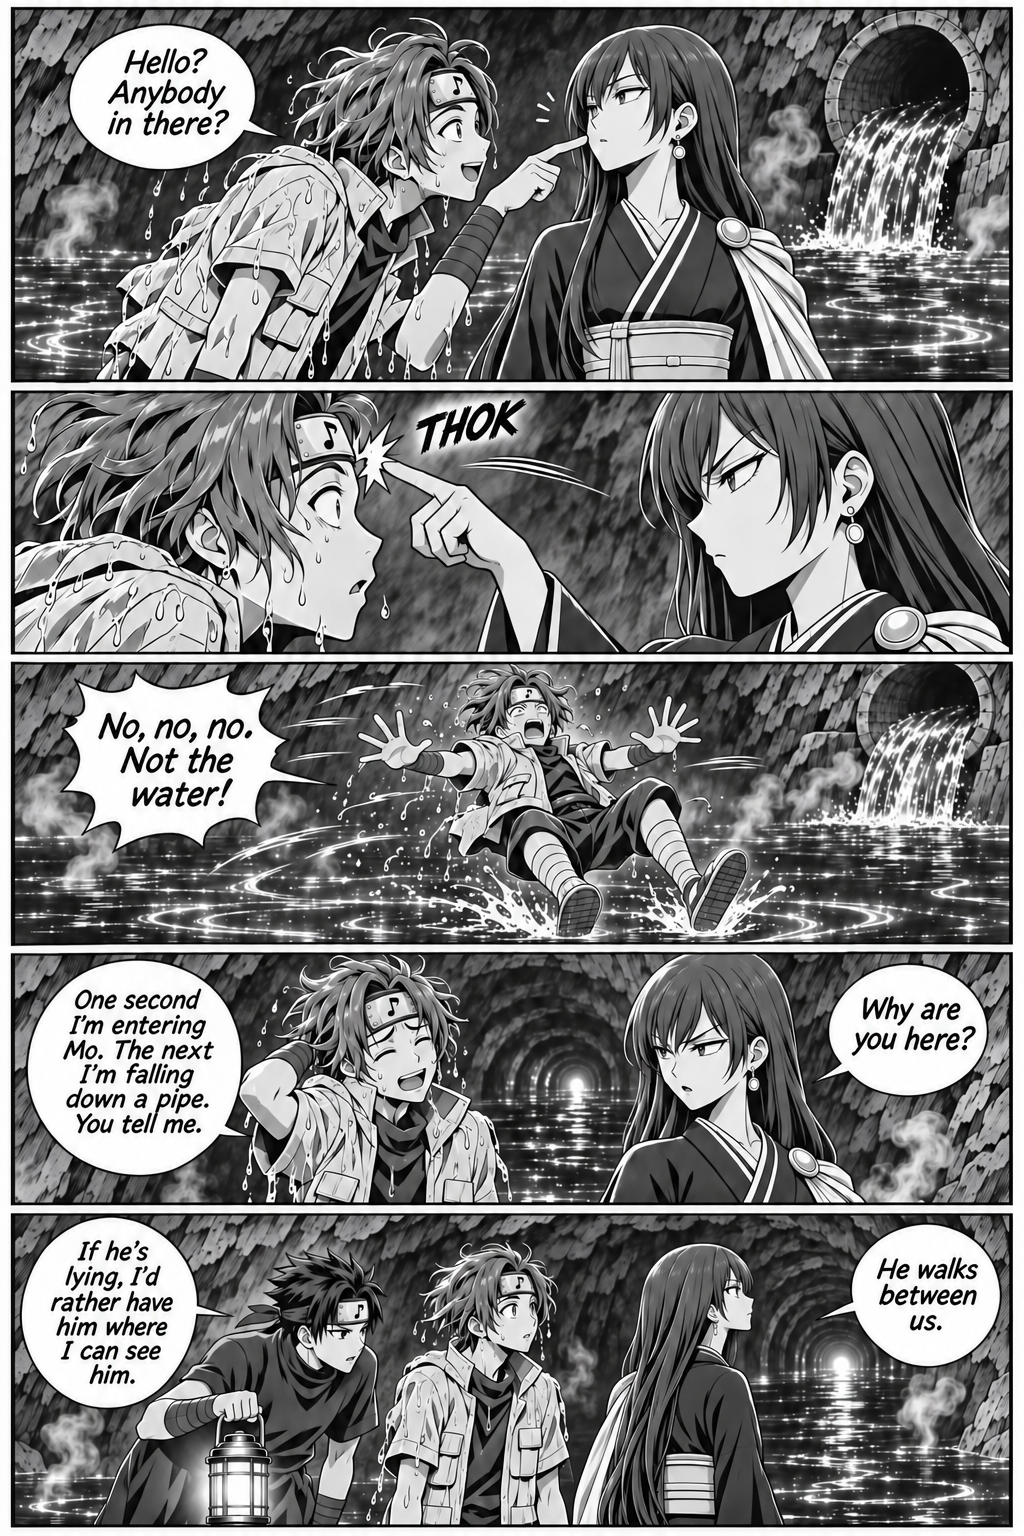
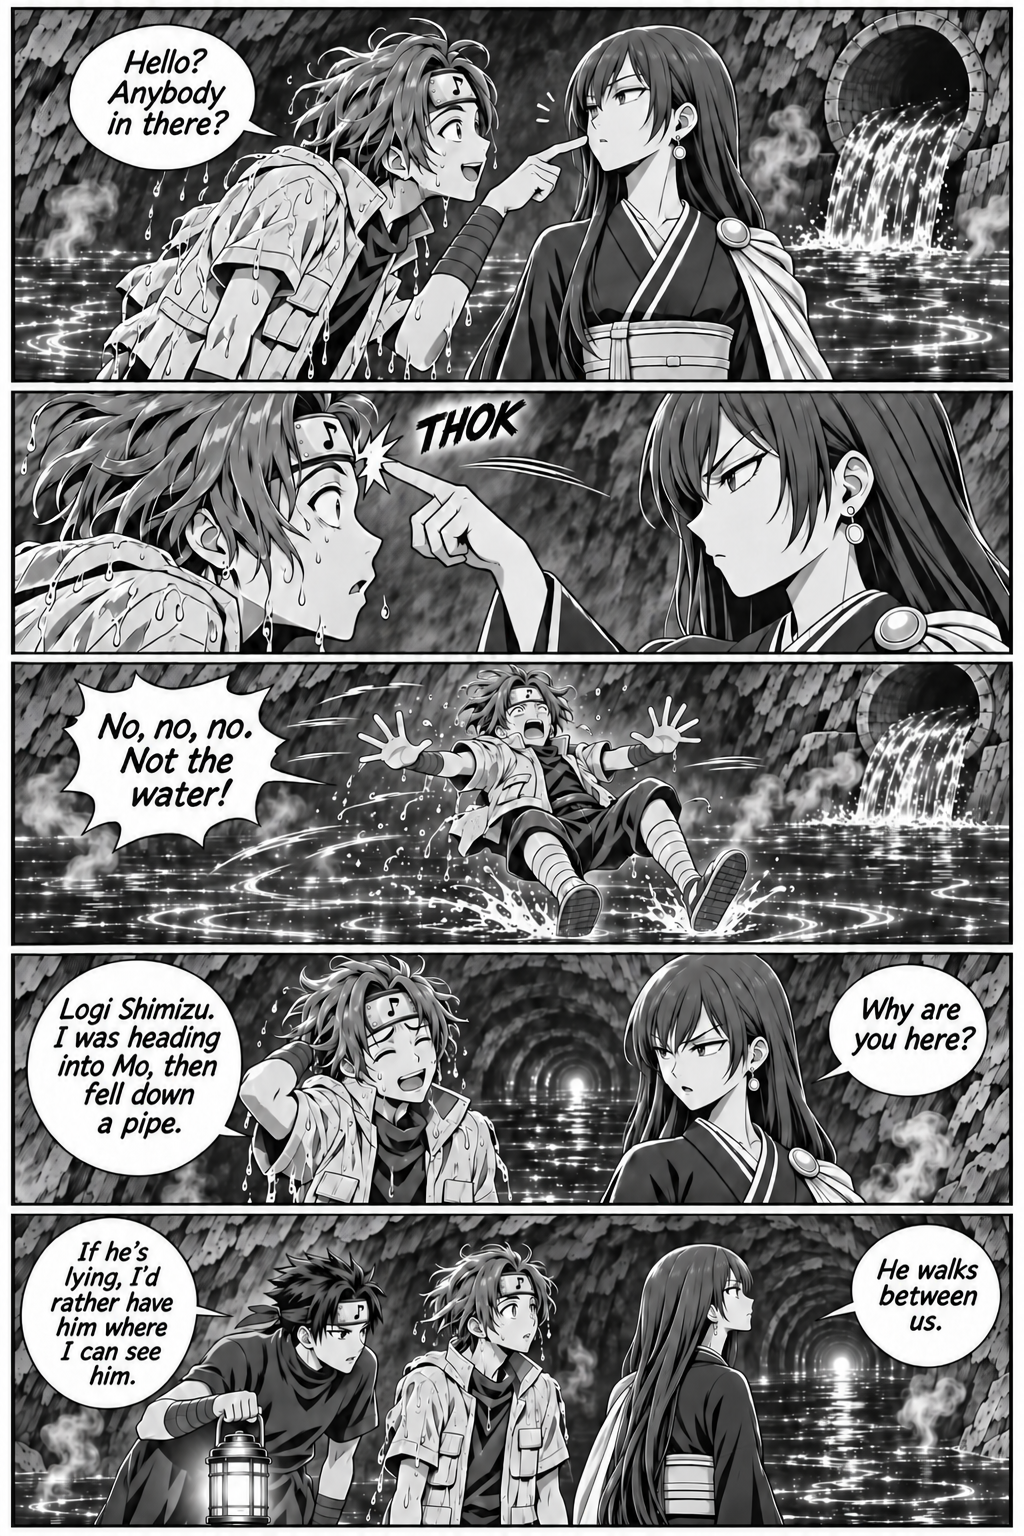
Introduce the Diamond Mine mission and cast

diff --git a/assets/reader.js b/assets/reader.js
@@ -4,32 +4,32 @@ const buttons = document.querySelectorAll('[data-step]');
 const select = document.querySelector('#page-select');
 const layout = document.querySelector('#layout');
 const position = document.querySelector('#position');
-let page = 1;
+let page = 0;
 let scrolling = false;
 
-for (let number = 1; number <= pages.length; number += 1) {
-  select.add(new Option(number + ' / ' + pages.length, number));
-}
+pages.forEach((figure, index) => {
+  select.add(new Option(figure.querySelector('figcaption').textContent, index));
+});
 
 function render() {
-  const requested = Number(location.hash.match(/^#page-(\d+)$/)?.[1]);
-  page = requested >= 1 && requested <= pages.length ? requested : 1;
+  const requested = pages.findIndex(figure => '#' + figure.id === location.hash);
+  page = Math.max(requested, 0);
   pages.forEach((figure, index) => {
-    figure.hidden = !scrolling && index + 1 !== page;
+    figure.hidden = !scrolling && index !== page;
   });
   select.value = page;
-  position.textContent = 'Page ' + page + ' of ' + pages.length;
+  position.textContent = pages[page].querySelector('figcaption').textContent;
   buttons.forEach(button => {
     const target = page + Number(button.dataset.step);
-    button.disabled = target < 1 || target > pages.length;
+    button.disabled = target < 0 || target >= pages.length;
   });
 }
 
 function show(number) {
-  if (number < 1 || number > pages.length) return;
-  if (number !== page) history.pushState(null, '', '#page-' + number);
+  if (number < 0 || number >= pages.length) return;
+  if (number !== page) history.pushState(null, '', '#' + pages[number].id);
   render();
-  pages[page - 1].scrollIntoView();
+  pages[page].scrollIntoView();
 }
 
 buttons.forEach(button => button.addEventListener('click', () => show(page + Number(button.dataset.step))));
@@ -41,7 +41,7 @@ layout.addEventListener('click', () => {
 });
 window.addEventListener('hashchange', () => {
   render();
-  pages[page - 1].scrollIntoView();
+  pages[page].scrollIntoView();
 });
 window.addEventListener('keydown', event => {
   if (event.altKey || event.ctrlKey || event.metaKey || event.shiftKey || event.target.closest('input, select, textarea, [contenteditable]')) return;
@@ -52,4 +52,4 @@ window.addEventListener('keydown', event => {
 });
 render();
 controls.forEach(control => { control.hidden = false; });
-if (location.hash) pages[page - 1].scrollIntoView();
+if (location.hash) pages[page].scrollIntoView();

diff --git a/index.html b/index.html
@@ -4,7 +4,7 @@
   <meta charset="utf-8">
   <meta name="viewport" content="width=device-width,initial-scale=1">
   <title>Diamond Mine · NFRP World</title>
-  <meta name="description" content="Read Diamond Mine, a 16-page manga adapted from the NFRP roleplay.">
+  <meta name="description" content="Read Diamond Mine, a manga one-shot adapted from the NFRP roleplay.">
   <link rel="stylesheet" href="https://fonts.googleapis.com/css2?family=Shippori+Mincho:wght@600;700&amp;display=swap">
   <link rel="stylesheet" href="assets/style.css">
   <link rel="stylesheet" href="assets/reader.css">
@@ -18,7 +18,7 @@
 </div></header>
 <main>
   <h1>Diamond Mine</h1>
-  <p class="lead">A 16-page manga adapted from the NFRP roleplay.</p>
+  <p class="lead">A manga one-shot adapted from the NFRP roleplay.</p>
   <div class="reader-controls" hidden>
     <button type="button" data-step="-1">← Previous</button>
     <label>Page <select id="page-select" aria-label="Jump to page"></select></label>
@@ -26,7 +26,8 @@
     <button type="button" id="layout" aria-pressed="false">Scroll mode</button>
   </div>
   <section id="pages" aria-label="Manga pages">
-  <figure id="page-1"><a href="diamond-mine/page-01.png"><img src="diamond-mine/page-01.png" alt="Diamond Mine, page 1" loading="eager"></a><figcaption>Page 1 of 16</figcaption></figure>
+    <figure id="prologue"><a href="diamond-mine/prologue.png"><img src="diamond-mine/prologue.png" alt="Diamond Mine prologue. Chiaki and Hoshiro receive their mission at the mining camp." loading="eager"></a><figcaption>Prologue</figcaption></figure>
+  <figure id="page-1"><a href="diamond-mine/page-01.png"><img src="diamond-mine/page-01.png" alt="Diamond Mine, page 1" loading="lazy"></a><figcaption>Page 1 of 16</figcaption></figure>
 <figure id="page-2"><a href="diamond-mine/page-02.png"><img src="diamond-mine/page-02.png" alt="Diamond Mine, page 2" loading="lazy"></a><figcaption>Page 2 of 16</figcaption></figure>
 <figure id="page-3"><a href="diamond-mine/page-03.png"><img src="diamond-mine/page-03.png" alt="Diamond Mine, page 3" loading="lazy"></a><figcaption>Page 3 of 16</figcaption></figure>
 <figure id="page-4"><a href="diamond-mine/page-04.png"><img src="diamond-mine/page-04.png" alt="Diamond Mine, page 4" loading="lazy"></a><figcaption>Page 4 of 16</figcaption></figure>
